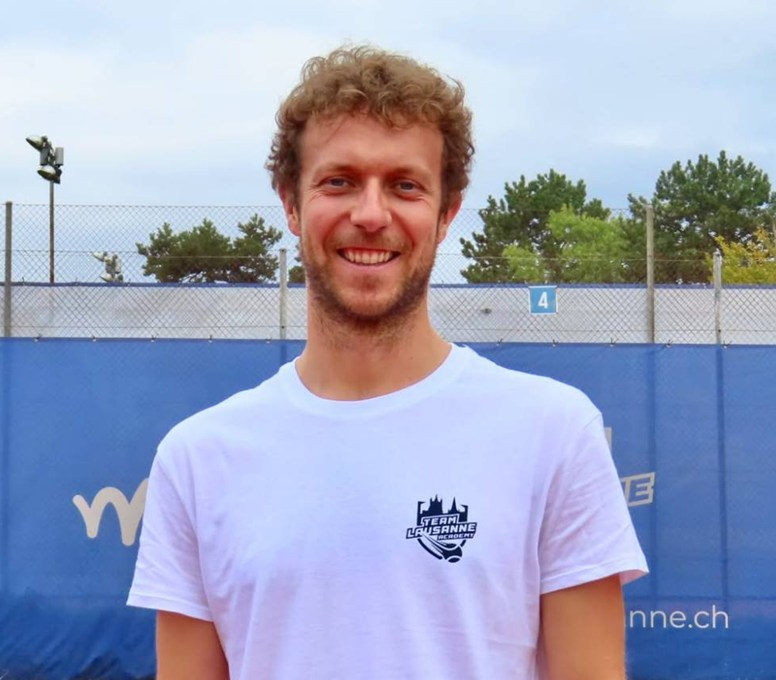
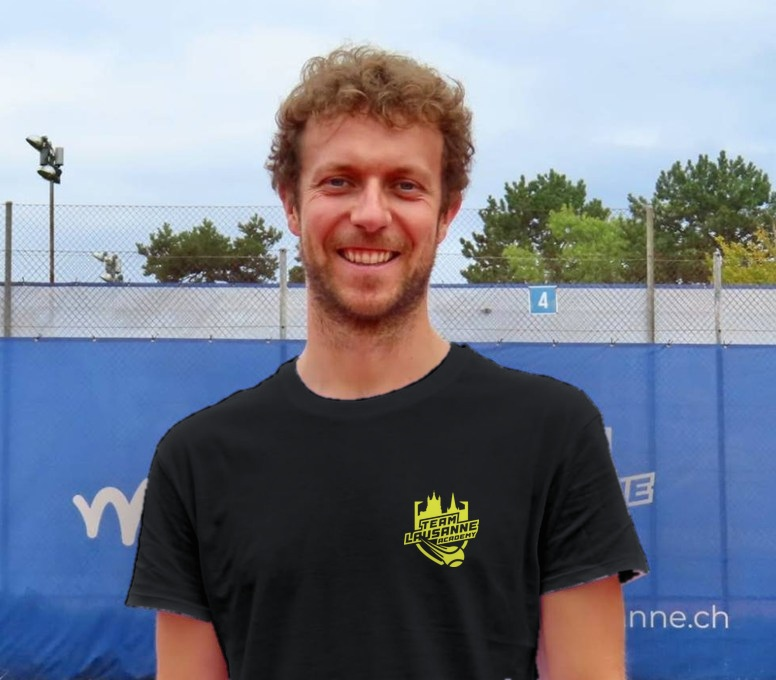
Site : la photo d'Andreas Egger, en t-shirt noir.
La carte et la fiche partagent désormais le même cliché. Le fichier -large
en t-shirt blanc reste en place : il illustre son article d'actualité, et
il n'existe pas de version large du nouveau — un agrandissement serait
plus lourd sans être plus net, autant laisser la fiche le cadrer en CSS.

Changed region(s): [[0.1546, 0.4941, 0.8351, 1.0]]

diff --git a/site/contenu.js b/site/contenu.js
@@ -183,7 +183,11 @@ coachs:
   // Seul coach de l'équipe à ne pas enseigner le tennis : pas de bloc
   // « Classement », qui n'aurait aucun sens pour un préparateur physique.
   // La fiche ne l'affiche pas quand la liste est absente.
+  // La fiche réutilise la photo de la carte : le cliché en t-shirt noir n'existe
+  // qu'en 776×680, et un fichier -large fabriqué par agrandissement serait plus
+  // lourd sans être plus net. Le -large en t-shirt blanc reste pour son article.
   { slug: "andreas-egger", role: "Coach physique", nom: "Andreas Egger",
+    portrait: "assets/photos/coaches/andreas-egger.jpg", portraitPos: "center 10%",
     resume: "Préparateur physique, il accompagne les joueurs toute la saison et les pousse à se surpasser au quotidien.",
     tags: ["Sport-études & Pro"],
     bio: [
